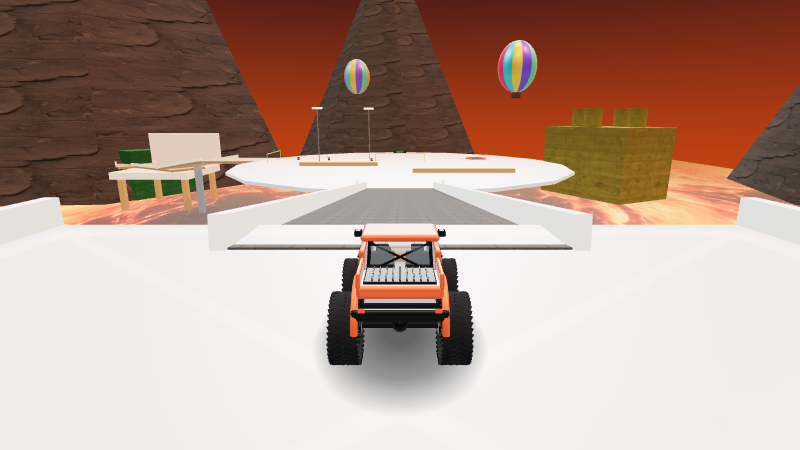
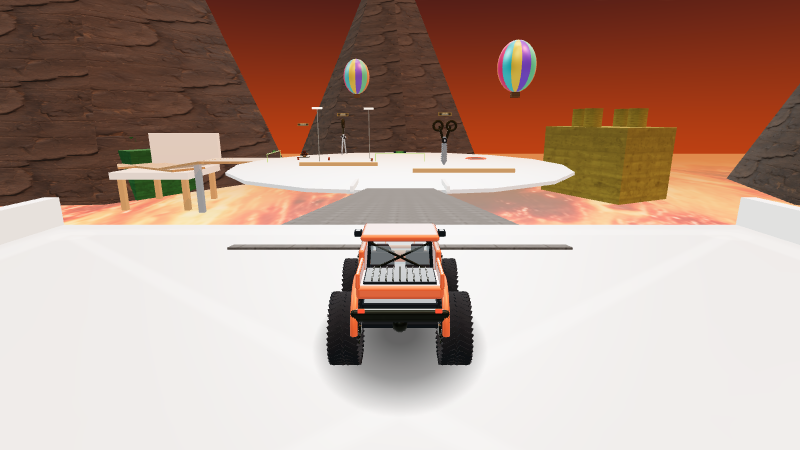
Update game files

diff --git a/tests/fireside-sonata.test.ts b/tests/fireside-sonata.test.ts
@@ -18,6 +18,7 @@ const levelJson = () =>
     solids: { id: string; w: number; d: number; pianoKey?: number }[];
     limit: number;
     rings: { goal?: boolean }[];
+    prefabs: { kind: string }[];
   };
 
 it("gives the white table a 150-unit diameter", () => {
@@ -29,6 +30,9 @@ it("gives the white table a 150-unit diameter", () => {
 it("runs the piano octave and a goal ring under an eight-minute limit", () => {
   const level = levelJson();
   expect(level.limit).toBe(480);
+  const kinds = level.prefabs.map((p) => p.kind);
+  expect(kinds.filter((k) => k === "scissors")).toHaveLength(2);
+  expect(kinds.filter((k) => k === "hydrant")).toHaveLength(1);
   const keys = level.solids
     .filter((s) => s.pianoKey !== undefined)
     .map((s) => s.pianoKey);
@@ -106,5 +110,62 @@ it("fails a truck that falls into the lava", () => {
     );
   } finally {
     sim.dispose();
+  }
+});
+it("snaps a truck parked in the table shears", () => {
+  const sim = new Simulation();
+  try {
+    sim.startTrack(id);
+    sim.body.setTranslation({ x: 30, y: 32, z: 34 }, true);
+    sim.run(6);
+    expect(sim.trackRun!.status).toBe("failed");
+  } finally {
+    sim.dispose();
+  }
+});
+
+it("launches a truck that touches the table hydrant", () => {
+  const sim = new Simulation();
+  try {
+    sim.startTrack(id);
+    sim.body.setTranslation({ x: 52, y: 32, z: 38 }, true);
+    sim.run(2);
+    expect(sim.damageEvents.some((event) => event.source === "hydrant")).toBe(
+      true,
+    );
+  } finally {
+    sim.dispose();
+  }
+});
+it("keeps background shape bases on the lava from anywhere on the route", () => {
+  const level = JSON.parse(
+    readFileSync("levels/official/Fireside Sonata.json", "utf8"),
+  ) as {
+    backgroundTemplate: string;
+    spawn: { x: number; z: number };
+    checkpoints: { x: number; z: number }[];
+    rings: { x: number; z: number }[];
+    solids: { id: string; kind: string; x: number; y: number; z: number; w: number; h: number; d: number }[];
+  };
+  const template = JSON.parse(
+    readFileSync(`levels/backgrounds/${level.backgroundTemplate}.json`, "utf8"),
+  ) as { shapes: { radius: number; y?: number }[] };
+  const lava = level.solids.find((s) => s.kind === "lava")!;
+  const lavaTop = lava.y + lava.h / 2;
+  const points = [level.spawn, ...level.checkpoints, ...level.rings];
+  const route = {
+    minX: Math.min(...points.map((p) => p.x)),
+    maxX: Math.max(...points.map((p) => p.x)),
+    minZ: Math.min(...points.map((p) => p.z)),
+    maxZ: Math.max(...points.map((p) => p.z)),
+  };
+  for (const ring of template.shapes) {
+    // The ring follows the camera, so the lava must reach it from every
+    // route point; bases sit on the surface instead of floating over void.
+    expect(lava.x - lava.w / 2).toBeLessThanOrEqual(route.minX - ring.radius);
+    expect(lava.x + lava.w / 2).toBeGreaterThanOrEqual(route.maxX + ring.radius);
+    expect(lava.z - lava.d / 2).toBeLessThanOrEqual(route.minZ - ring.radius);
+    expect(lava.z + lava.d / 2).toBeGreaterThanOrEqual(route.maxZ + ring.radius);
+    expect(Math.abs((ring.y ?? 0) - lavaTop)).toBeLessThan(1);
   }
 });

diff --git a/e2e/fireside-sonata.spec.ts b/e2e/fireside-sonata.spec.ts
@@ -1,0 +1,79 @@
+import { test, expect } from "@playwright/test";
+// The lava lake must reach past the background shape ring from everywhere
+// on the route, so mountain bases sit on lava instead of clipping over void.
+const ROUTE = [
+  [0, -170, 14, 8], [0, -120, 16, 10], [0, -75, 12, 8],
+  [12, -45, 8, 6], [12, -22, 7, 5],
+  [-6, 4, 6, 5],
+  [0, 15, 8, 6],
+  [28, 18, 10, 5], [44, 24, 9, 5],
+  [64, 22, 9, 5],
+  [85, 26, 9, 6], [100, 32, 8, 6], [112, 40, 8, 6],
+  [126, 51, 5, 6], [140, 61, 5, 6],
+  [156, 71, 7, 6], [170, 80, 7, 6], [183, 93, 7, 6],
+  [192, 100, 7, 5],
+  [200, 108, 8, 5], [200, 125, 10, 6], [200, 145, 10, 6],
+  [200, 165, 10, 6], [200, 192, 10, 0],
+];
+test("piano view keeps mountain bases on the lava", async ({ page }, info) => {
+  const errors: string[] = [];
+  page.on("pageerror", (e) => errors.push(e.message));
+  page.on("console", (m) => {
+    if (m.type() === "error") errors.push(m.text());
+  });
+  await page.goto("/");
+  await page.waitForFunction(() => !!window.__game);
+  await page.evaluate((route) => {
+    const g = window.__game!;
+    g.pause(true);
+    g.startTrack("custom:fireside-sonata");
+    let next = 0;
+    for (
+      let i = 0;
+      i < 14400 &&
+      g.snapshot().run?.status === "running" &&
+      g.snapshot().position.z < 150;
+      i++
+    ) {
+      g.driveFrames(
+        1,
+        16,
+        (s) => {
+          const [wx, wz, , reach] = route[next];
+          if (Math.hypot(wx - s.position.x, wz - s.position.z) < reach) next++;
+          const [x, z, speed] = route[next];
+          const aim =
+            Math.atan2(x - s.position.x, z - s.position.z) -
+            Math.atan2(s.forward[0], s.forward[2]);
+          const error = Math.atan2(Math.sin(aim), Math.cos(aim));
+          const pace = Math.hypot(s.velocity.x, s.velocity.z);
+          const cap = Math.abs(error) > 0.58 ? Math.min(6, speed) : speed;
+          return {
+            steer: Math.max(-1, Math.min(1, error * 2.5)),
+            throttle: pace < cap ? 1 : 0,
+            brake: pace > cap + 0.65 ? 0.65 : 0,
+          };
+        },
+        false,
+      );
+    }
+    g.pause(true);
+  }, ROUTE);
+  const state = await page.evaluate(() => {
+    const g = window.__game!;
+    return { run: g.snapshot().run, position: g.snapshot().position };
+  });
+  expect(state.run?.status).toBe("running");
+  expect(state.run?.checkpoint).toBe(2);
+  expect(state.position.x).toBeGreaterThan(190);
+  expect(state.position.x).toBeLessThan(210);
+  expect(state.position.z).toBeGreaterThan(140);
+  expect(state.position.z).toBeLessThan(160);
+  const stats = await page.evaluate(() => window.__game!.stats());
+  await info.attach("render-stats", {
+    body: JSON.stringify(stats),
+    contentType: "application/json",
+  });
+  await page.screenshot({ path: info.outputPath("piano-mountains.png") });
+  expect(errors).toEqual([]);
+});

diff --git a/docs/TDD_LOG.md b/docs/TDD_LOG.md
@@ -331,3 +331,6 @@ RED: tests/backgrounds.test.ts (schema/registry/heuristic/placement), tests/back
 
 ## Fireside Sonata - Room reference level + piano-key mechanic
 RED: tests/piano-keys.test.ts (fade math, validation, sim press) and tests/fireside-sonata.test.ts (table diameter, octave/ring/limit, headless drive, lava) failed before the code and level existed. GREEN: 7 + 4 pass. CustomSolid/CourseSolid gain pianoKey 0-6 (validated); sim maps wheel-ground colliders back to solid ids and records strike times; CourseView fades struck keys from their rainbow voice to white over 4s (unique materials per tile, no needsUpdate). Fireside Sonata (ee88dc01 reference): mantel spawn, railed ramp, 150-diameter table with chicane/lamps/barrels/trampoline/balloons and two checkpoints, railed chair-top bridge arcing onto the piano octave, goal ring past the last key, lava floor, limit 480, medals 70/110/180 from a measured 63.9s headless drive. order.json + reference-images.json recorded; real SwiftShader preview captured to public/tracks/fireside-sonata.png. Lineup-count suites updated to 17 (tracks, level-select, expansion-ui) and the N/P e2e now walks the full order including wraparound. Full unit has 3 pre-existing HEAD failures (Amber zfight suspects, chompworks background template, dungeon timing); tsc + build clean.
+
+## Fireside Sonata fixes - z-fighting, rails, hazards, lava horizon
+Z-fight scan listed 13 Fireside suspects (table/C1 overlap, 12 key/separator flush pairs); lowered separators 0.1 and C1 0.1 for a clean scan. Removed the 10 ramp/curve side rails; drive test still green. Added 2 table scissors + hydrant clear of the waypoint line, with liveness tests (shears kill, hydrant fires). Mountain bases floated past the lava edge; perf probe (120 paused rAFs, piano vantage, SwiftShader) measured baseline 300ms, lowered-mountains 316/366ms, big-lava 366.7/366.7ms, baseline re-check 350ms: treatment effect within run noise, so the call went to correctness/scope - lowering edits the shared ember-dusk template and only aligns one viewpoint, while the 1300x1400 lava genuinely grounds every ring from every route point. Kept lava; unit test asserts ring coverage + base height, e2e fireside-sonata.spec drives to the piano and screenshots the result. 3 pre-existing HEAD unit failures unchanged; tsc + build clean.
